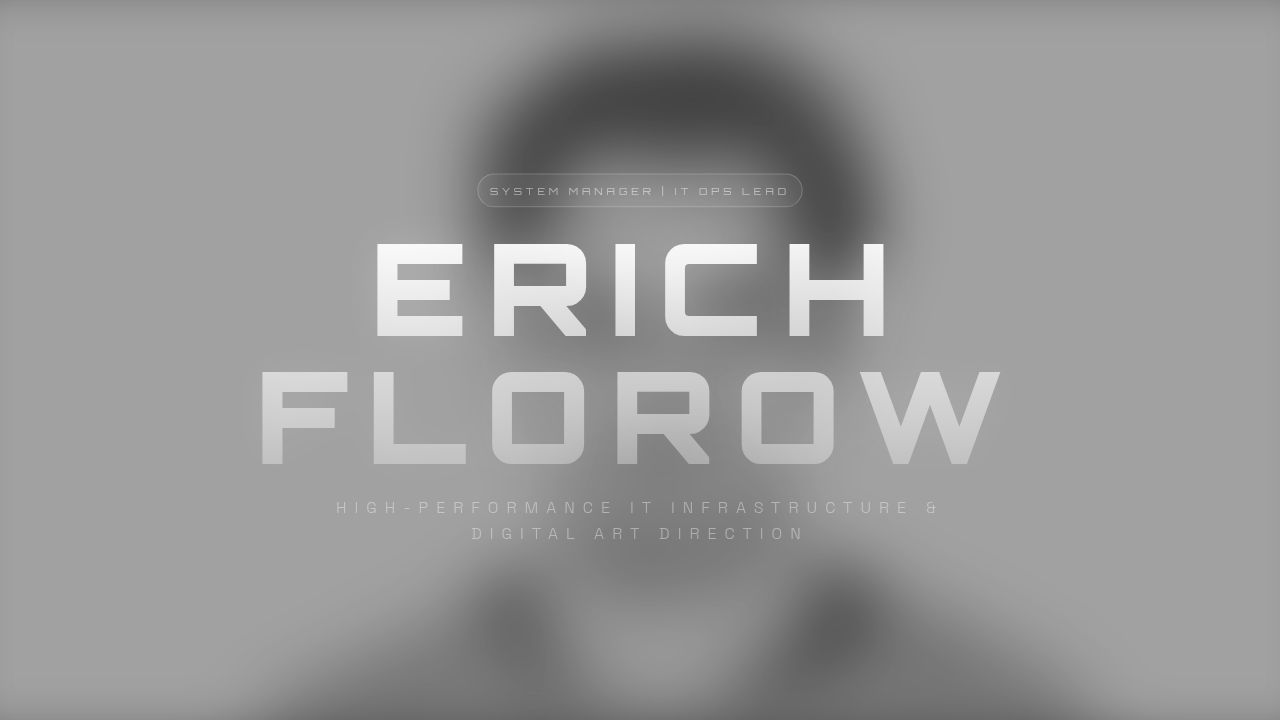
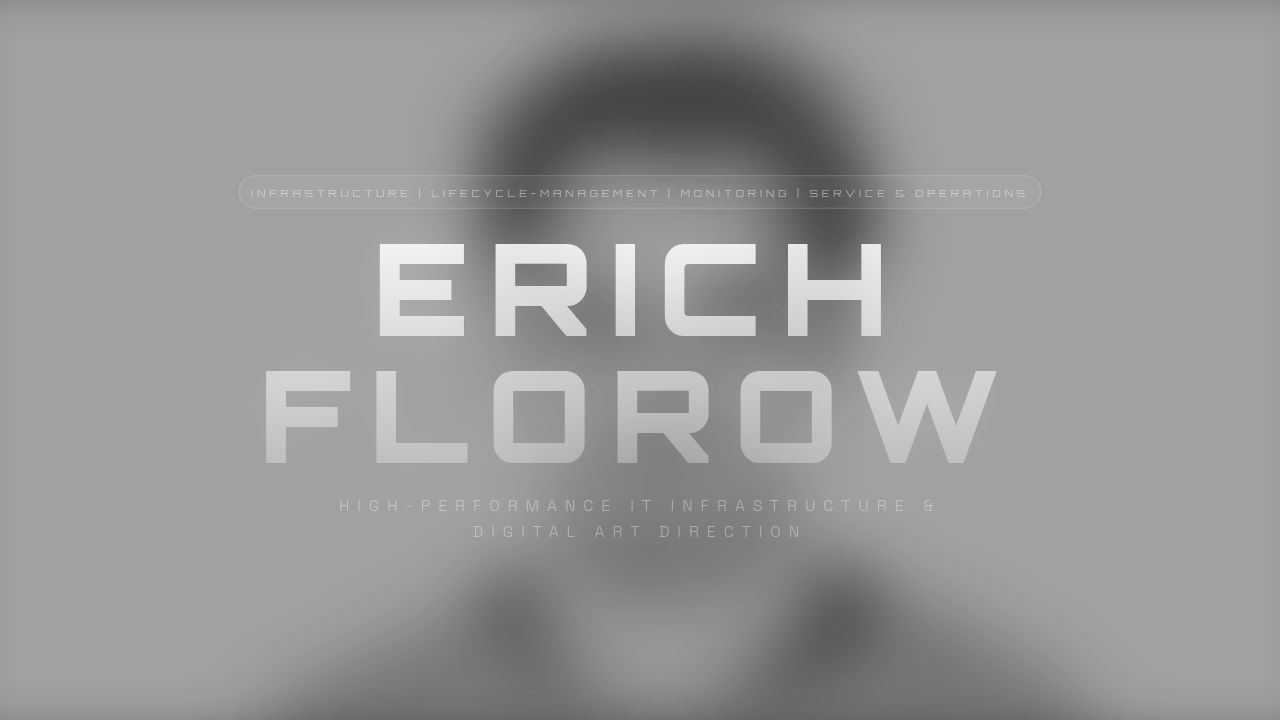
Update hero title to reflect comprehensive IT expertise
Update the main heading on the homepage to display "Infrastructure | LifeCycle-Management | Monitoring | Service & Operations".

Replit-Commit-Author: Agent
Replit-Commit-Session-Id: 8429f5a3-2a5b-4a5f-b96d-6bf4e889ec66
Replit-Commit-Checkpoint-Type: full_checkpoint
Replit-Commit-Event-Id: 21796238-9651-40a8-9145-5b32bb3c575d
Replit-Commit-Screenshot-Url: https://storage.googleapis.com/screenshot-production-us-central1/ac41c0b6-7845-4b6b-ad60-6fea01a77c30/8429f5a3-2a5b-4a5f-b96d-6bf4e889ec66/hCJewxz
Replit-Helium-Checkpoint-Created: true

diff --git a/client/src/pages/home.tsx b/client/src/pages/home.tsx
@@ -65,7 +65,7 @@ export default function Home() {
           className="text-center z-10"
         >
           <div className="inline-block mb-4 px-3 py-1 border border-white/20 bg-white/5 rounded-full">
-            <span className="text-[10px] uppercase tracking-[0.4em] font-display text-white/50">Infrastructure Architect | Service Operations Lead</span>
+            <span className="text-[10px] uppercase tracking-[0.4em] font-display text-white/50">Infrastructure | LifeCycle-Management | Monitoring | Service & Operations</span>
           </div>
           <h1 className="font-display text-6xl md:text-9xl font-black uppercase tracking-[0.15em] mb-4 drop-shadow-[0_0_20px_rgba(255,255,255,0.2)] text-transparent bg-clip-text bg-gradient-to-b from-white to-white/30">
             Erich Florow
